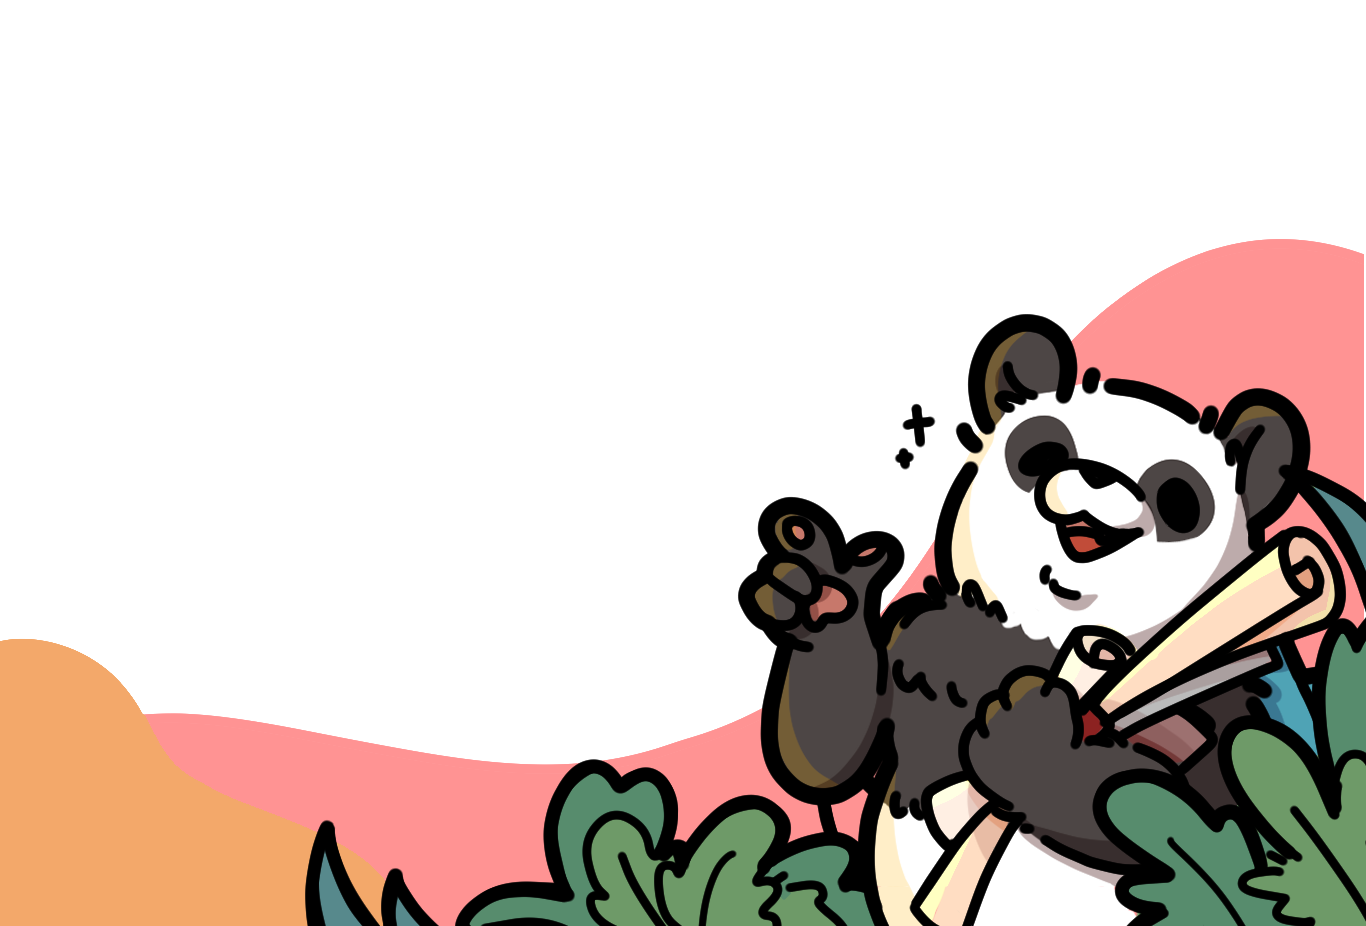
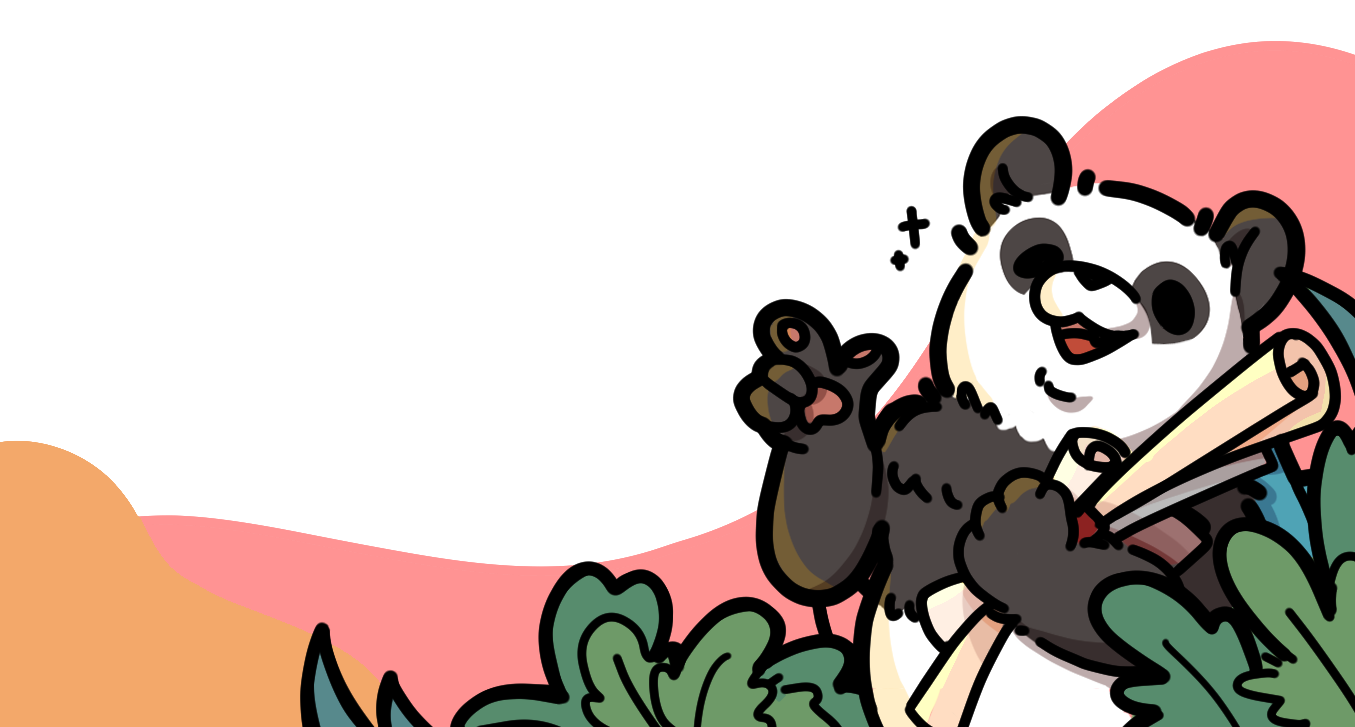
big screen responsiveness

Changed region(s): [[0.0, 0.0303, 1.0, 1.0], [0.9609, 0.9986, 0.9919, 1.0], [0.4339, 0.9986, 0.4649, 1.0]]

diff --git a/src/App.vue b/src/App.vue
@@ -20,13 +20,14 @@
 </script>
 
 <template>
-  <div class="relative min-h-screen min-w-screen py-8 overflow-hidden" 
-      :class="{ 'bg-gradient' : router.currentRoute.value.name !== 'home' || show_options }">
+  <div class="relative py-8" 
+      :class="{ 'bg-gradient' : router.currentRoute.value.name !== 'home' || show_options,
+                'min-h-screen h-full lg:overflow-hidden flex flex-col' : router.currentRoute.value.name === 'home' && !show_options }">
 
-    <TopBar id="topbar" @show_options="show_options = !show_options" @close="s => scrollTo(s)"/>
+    <TopBar id="topbar" @show_options="show_options = !show_options" @close="s => scrollTo(s)" />
 
     <div class="border-y-2 pt-16 pb-8" 
-      :class="{ 'md:px-12 mx-8' : router.currentRoute.value.name === 'home' && !show_options,
+      :class="{ 'md:px-12 mx-8 flex-1' : router.currentRoute.value.name === 'home' && !show_options,
                 'px-8 sm:px-12 md:px-28 lg:px-48 bg-cr-beige' : router.currentRoute.value.name !== 'home' || show_options }">
       <MobileOptions v-if="show_options" @close="s => scrollTo(s)"/>
       <router-view v-else></router-view>
@@ -35,8 +36,8 @@
     <FooterVue />
 
     <template v-if="router.currentRoute.value.name === 'home'">
-      <img src="./assets/bg_top.png" alt="imagem de fundo 1" class="-z-10 w-full absolute top-0 right-0"/>
-      <img src="./assets/bg_bottom.png" alt="imagem de fundo 2" class="-z-10 w-full absolute bottom-0 right-0 lg:bottom-[-50px]"/>
+      <img src="./assets/bg_top.png" alt="imagem de fundo 1" class="-z-10 w-full absolute top-0"/>
+      <img src="./assets/bg_bottom.png" alt="imagem de fundo 2" class="-z-10 w-full absolute bottom-0 lg:bottom-[-60px]"/>
     </template>
 
   </div>

diff --git a/src/components/Footer.vue b/src/components/Footer.vue
@@ -6,12 +6,12 @@
 </script>
 
 <template>
-    <div class="mx-8 py-2 relative grid grid-cols-1 sm:grid-cols-3 gap-2 flex">
+    <div class="relative grid grid-cols-1 md:grid-cols-3 gap-2 mx-8 py-2">
 
-        <ContactIcons class="order-last sm:order-first flex items-center justify-center sm:justify-start gap-2" size="h-8 w-8" />
+        <ContactIcons class="order-last md:order-first flex items-center justify-center md:justify-start gap-2" size="h-8 w-8" />
 
         <div class="col-span-1 flex flex-col items-center text-outline-white whitespace-nowrap">
-            <p class="font-shrikhand font-normal text-xl">Clube Rainbow</p>
+            <p class="subsubtitle">Clube Rainbow</p>
             <p class="text-sm">rainbow.clube.estudantes@gmail.com</p>
         </div>
 

diff --git a/src/components/TopBar.vue b/src/components/TopBar.vue
@@ -21,7 +21,7 @@
 </script>
 
 <template>
-    <div v-if="windowWidth >= 1180" class="mx-8 flex justify-between gap-x-4">
+    <div v-if="windowWidth >= 1180" class="mx-8 flex justify-between gap-x-4 z-20">
       
         <button class="topbar_option hover:bg-[rgba(190,0,0,0.25)] focus:bg-[rgba(190,0,0,0.25)]" 
             @click="redirect('home')">
@@ -117,7 +117,7 @@
 
 <style scoped>
     .sub_button {
-        @apply flex justify-between items-center gap-2 px-2 xl-topbar:px-3 h-full
+        @apply flex justify-center items-center gap-2.5 px-2 xl-topbar:px-3 h-full
     }
     .sub_section {
         @apply absolute top-full w-full flex flex-col gap-1 z-20

diff --git a/src/pages/HomePage.vue b/src/pages/HomePage.vue
@@ -11,9 +11,9 @@
 <template>
     <ModalCands v-if="show_modal" @close="show_modal = false" />
 
-    <div class="flex flex-col-reverse items-center md:flex-row md:items-start gap-x-6 gap-y-4">
+    <div class="flex flex-col-reverse md:flex-row items-center md:items-start gap-x-6 gap-y-4 h-full">
 
-        <div class="flex flex-col gap-6 w-full md:w-[600px] my-auto">
+        <div class="flex flex-col gap-6 w-full md:w-[600px]">
             <HomeIntro />
             <HomeBtns @show_modal="show_modal = true"/>
         </div>

diff --git a/src/components/Modals/Modal.vue b/src/components/Modals/Modal.vue
@@ -1,5 +1,5 @@
 <template>
-    <div class="fixed z-10 top-0 left-0 h-full w-full bg-[rgba(0,0,0,0.25)] px-4 sm:px-8 pt-12 md:pt-32">
+    <div class="fixed z-30 top-0 left-0 h-full w-full bg-[rgba(0,0,0,0.25)] px-4 sm:px-8 pt-12 md:pt-32">
 
         <div class="relative flex flex-col gap-4 w-full md:max-w-[1000px] mx-auto box py-6 px-8">
     

diff --git a/src/pages/About.vue b/src/pages/About.vue
@@ -12,7 +12,7 @@
 <template>
     <ModalDeptCand v-if="show_modal" :dept="dept_cand" @close="show_modal = false" />
     
-    <div class="flex flex-col gap-10">
+    <div class="flex flex-col gap-10 max-w-6xl mx-auto">
         
         <div id="clube" class="flex flex-col gap-4">
             <p class="title">

diff --git a/src/pages/Resources.vue b/src/pages/Resources.vue
@@ -4,7 +4,7 @@ import Association from '../components/Resources/Association.vue'
 </script>
 
 <template>
-    <div class="flex flex-col gap-4">
+    <div class="flex flex-col gap-4 max-w-6xl mx-auto">
         
         <p class="title whitespace-nowrap">
             Recursos Úteis

diff --git a/src/pages/Merch.vue b/src/pages/Merch.vue
@@ -3,7 +3,7 @@ import MerchItem from '../components/Merch/MerchItem.vue';
 </script>
 
 <template>
-    <div class="flex flex-col gap-4">
+    <div class="flex flex-col gap-4 max-w-6xl mx-auto">
         
         <p class="title">
             Autocolantes

diff --git a/src/pages/Info.vue b/src/pages/Info.vue
@@ -4,7 +4,7 @@
 </script>
 
 <template>
-    <div class="flex flex-col gap-10">
+    <div class="flex flex-col gap-10 max-w-6xl mx-auto">
         <Events id="events" />
         <Faq id="faq" />
     </div>

diff --git a/src/pages/Contacts.vue b/src/pages/Contacts.vue
@@ -4,7 +4,7 @@
 </script>
 
 <template>
-    <div class="flex flex-col gap-4">
+    <div class="flex flex-col gap-4 max-w-6xl mx-auto">
         <p class="title">
             Contactos
         </p>
